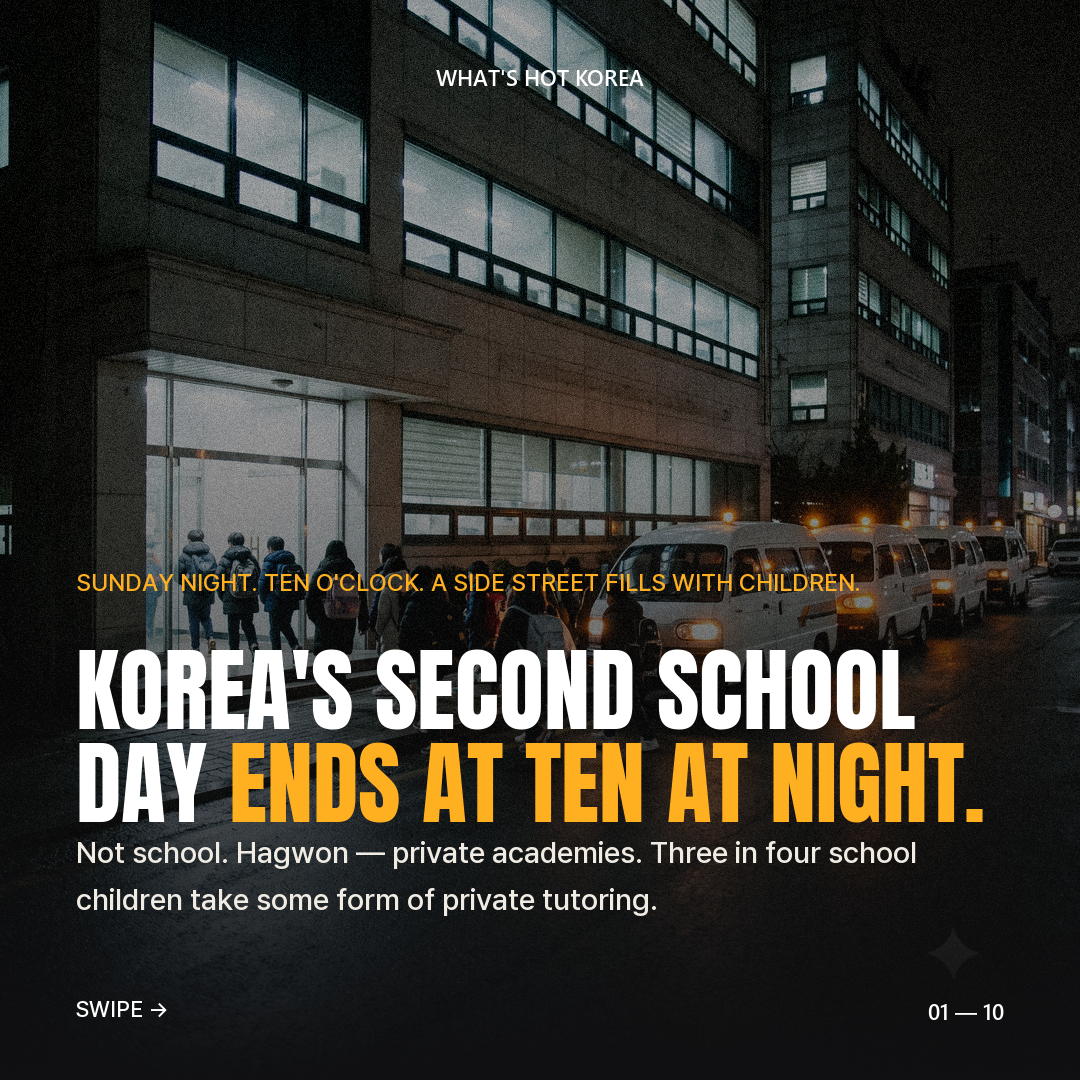
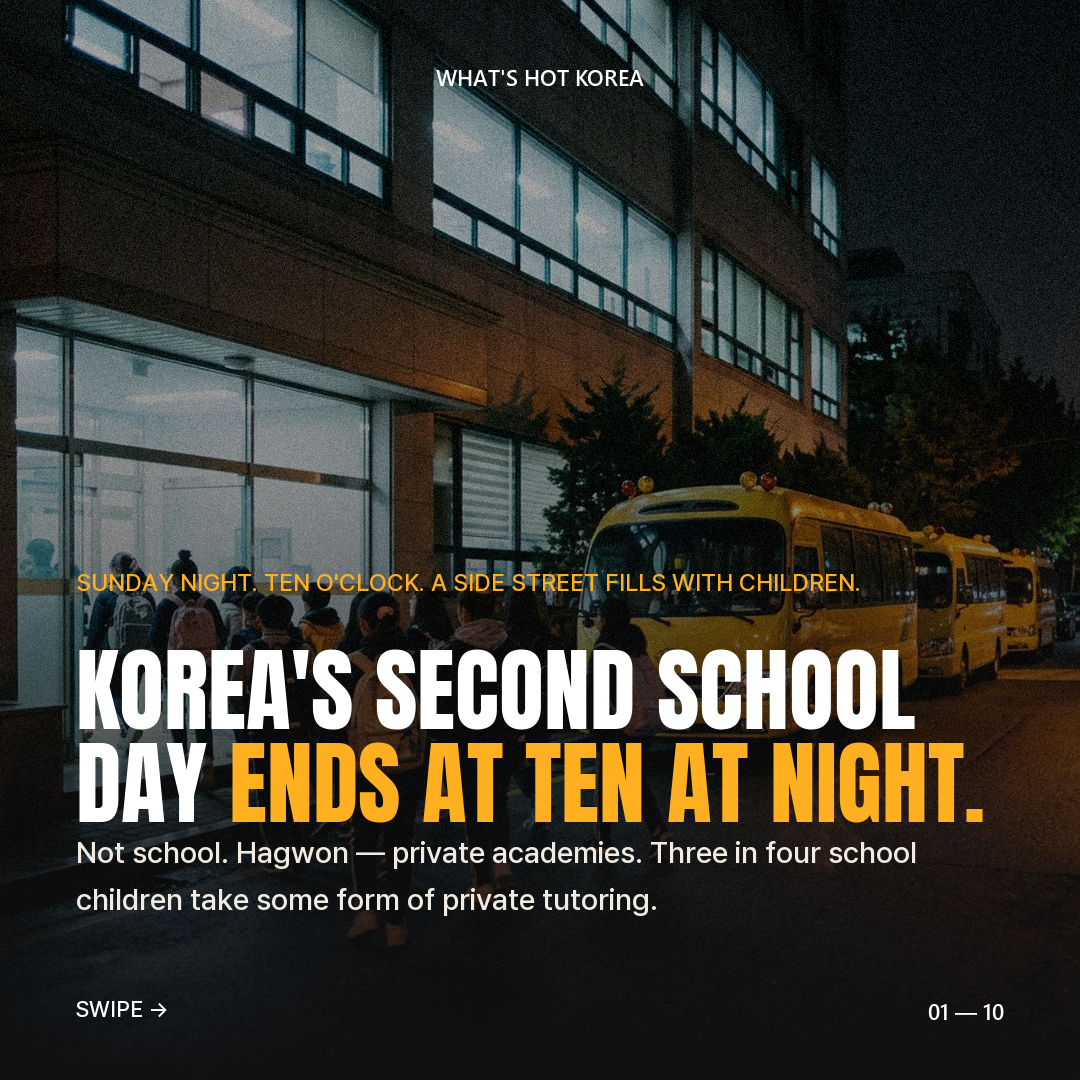
Replace the wrong shuttle photos on the 2026-09-13 hook and card 4
The prompt file told Gemini the academy shuttle was a small white van, so
cards 1 and 4 came back with white minivans. Korean academy shuttles are
legally required to be yellow: they are Hyundai County type minibuses in
school-bus yellow with amber roof lamps and convex front mirrors.

Fix the common rule and both prompts, regenerate the two photos, and
re-render the carousel.

Claude-Session: https://claude.ai/code/session_011yzLnMJmoeAZbPbugLHtCw

diff --git a/2026-09-13_일요일/PROMPTS.md b/2026-09-13_일요일/PROMPTS.md
@@ -10,7 +10,7 @@
 ```
 Photorealistic documentary photograph, square 1:1 framing, a Korean city at night, around ten o'clock.
 An academy district: a mid-rise building whose every floor is a cram school, lit windows stacked up the facade,
-a narrow street below with small shuttle vans and waiting cars. Cold fluorescent light from inside against warm
+a narrow street below with small yellow academy shuttle buses and waiting cars. Cold fluorescent light from inside against warm
 sodium street light, wet asphalt, slight film grain, shallow depth of field. Subject sits in the upper two-thirds;
 the bottom third is calm and uncluttered so text can sit over it. School-age children appear only from behind,
 cropped at the shoulders, or blurred. No text, no signage lettering, no Hangul, no letters, no numbers, no logos,
@@ -26,8 +26,11 @@ no watermarks, no recognizable faces.
 - **아이 얼굴이 잡힌다.** 미성년자 얼굴은 이 편에서 특히 위험하다. 전 컷 `from behind, cropped at the
   shoulders, or blurred` 를 강제하고, 얼굴이 살아난 컷은 버리고 다시 뽑는다.
 
-- **노란 스쿨버스가 나온다.** 학원 셔틀은 미국식 대형 스쿨버스가 아니라 **흰색 소형 승합차**다.
-  `small white shuttle van` 으로 고정했다.
+- **차가 틀린다.** 학원 셔틀은 미국식 노란 대형 스쿨버스도 아니고 흰색 승합차도 아니다. 어린이통학버스는
+  법으로 **황색 도색**이 강제돼, 실물은 **노란 현대 카운티급 소형버스**나 **노란 스타렉스/스타리아 승합차**다.
+  검은 고무 몰딩, 지붕의 호박색 경광등, 앞 범퍼 양쪽의 커다란 볼록거울, 옆으로 접히는 승하차문이 특징이다.
+  `yellow Korean academy shuttle bus, Hyundai County type boxy minibus` 로 고정한다.
+  (확인: 구글 이미지 '학원 셔틀버스' 2026-09-11 — 전부 노란색)
 
 ---
 
@@ -35,12 +38,13 @@ no watermarks, no recognizable faces.
 
 ```
 Children with backpacks streaming out of a lit building entrance onto a night pavement, seen from behind and from
-above at a slight angle, a queue of small shuttle vans with hazard lights along the kerb beside them. The building's
-upper floors are all lit. The pavement in the foreground is empty and dark.
+above at a slight angle, a queue of yellow Korean academy shuttle buses with hazard lights along the kerb beside them
+- boxy Hyundai County type minibuses painted school-bus yellow with black rubber side trim and amber roof lamps,
+plus one yellow shuttle van behind them. The building's upper floors are all lit. The pavement in the foreground is empty and dark.
 
 Photorealistic documentary photograph, square 1:1 framing, a Korean city at night, around ten o'clock.
 An academy district: a mid-rise building whose every floor is a cram school, lit windows stacked up the facade,
-a narrow street below with small shuttle vans and waiting cars. Cold fluorescent light from inside against warm
+a narrow street below with small yellow academy shuttle buses and waiting cars. Cold fluorescent light from inside against warm
 sodium street light, wet asphalt, slight film grain, shallow depth of field. Subject sits in the upper two-thirds;
 the bottom third is calm and uncluttered so text can sit over it. School-age children appear only from behind,
 cropped at the shoulders, or blurred. No text, no signage lettering, no Hangul, no letters, no numbers, no logos,
@@ -56,7 +60,7 @@ a classroom is lit and occupied, the figures inside small and out of focus.
 
 Photorealistic documentary photograph, square 1:1 framing, a Korean city at night, around ten o'clock.
 An academy district: a mid-rise building whose every floor is a cram school, lit windows stacked up the facade,
-a narrow street below with small shuttle vans and waiting cars. Cold fluorescent light from inside against warm
+a narrow street below with small yellow academy shuttle buses and waiting cars. Cold fluorescent light from inside against warm
 sodium street light, wet asphalt, slight film grain, shallow depth of field. Subject sits in the upper two-thirds;
 the bottom third is calm and uncluttered so text can sit over it. School-age children appear only from behind,
 cropped at the shoulders, or blurred. No text, no signage lettering, no Hangul, no letters, no numbers, no logos,
@@ -72,23 +76,25 @@ long shadows, the same stacked lit windows above them.
 
 Photorealistic documentary photograph, square 1:1 framing, a Korean city at night, around ten o'clock.
 An academy district: a mid-rise building whose every floor is a cram school, lit windows stacked up the facade,
-a narrow street below with small shuttle vans and waiting cars. Cold fluorescent light from inside against warm
+a narrow street below with small yellow academy shuttle buses and waiting cars. Cold fluorescent light from inside against warm
 sodium street light, wet asphalt, slight film grain, shallow depth of field. Subject sits in the upper two-thirds;
 the bottom third is calm and uncluttered so text can sit over it. School-age children appear only from behind,
 cropped at the shoulders, or blurred. No text, no signage lettering, no Hangul, no letters, no numbers, no logos,
 no watermarks, no recognizable faces.
 ```
 
-## content4.png — 밤 거리에 줄지어 선 학원 셔틀 승합차
+## content4.png — 밤 거리에 줄지어 선 노란 학원 셔틀버스
 
 ```
-A line of small white academy shuttle vans parked nose to tail along a narrow night street with their hazard lights
-blinking, cars idling behind them, a few blurred adult figures waiting on the pavement. Wet asphalt throwing back
-the red and orange light. The lower third is open empty road.
+A line of yellow Korean academy shuttle buses parked nose to tail along a narrow night street with their hazard
+lights blinking - boxy Hyundai County type minibuses painted school-bus yellow, black rubber side trim, amber
+warning lamps on the roof, large convex mirrors on the front corners, side doors folded open - cars idling behind
+them, a few blurred adult figures waiting on the pavement. Wet asphalt throwing back the yellow and red light.
+The lower third is open empty road.
 
 Photorealistic documentary photograph, square 1:1 framing, a Korean city at night, around ten o'clock.
 An academy district: a mid-rise building whose every floor is a cram school, lit windows stacked up the facade,
-a narrow street below with small shuttle vans and waiting cars. Cold fluorescent light from inside against warm
+a narrow street below with small yellow academy shuttle buses and waiting cars. Cold fluorescent light from inside against warm
 sodium street light, wet asphalt, slight film grain, shallow depth of field. Subject sits in the upper two-thirds;
 the bottom third is calm and uncluttered so text can sit over it. School-age children appear only from behind,
 cropped at the shoulders, or blurred. No text, no signage lettering, no Hangul, no letters, no numbers, no logos,
@@ -104,7 +110,7 @@ no readable signage anywhere on the building.
 
 Photorealistic documentary photograph, square 1:1 framing, a Korean city at night, around ten o'clock.
 An academy district: a mid-rise building whose every floor is a cram school, lit windows stacked up the facade,
-a narrow street below with small shuttle vans and waiting cars. Cold fluorescent light from inside against warm
+a narrow street below with small yellow academy shuttle buses and waiting cars. Cold fluorescent light from inside against warm
 sodium street light, wet asphalt, slight film grain, shallow depth of field. Subject sits in the upper two-thirds;
 the bottom third is calm and uncluttered so text can sit over it. School-age children appear only from behind,
 cropped at the shoulders, or blurred. No text, no signage lettering, no Hangul, no letters, no numbers, no logos,
@@ -120,7 +126,7 @@ the roofline, quiet empty street in the lower third.
 
 Photorealistic documentary photograph, square 1:1 framing, a Korean city at night, around ten o'clock.
 An academy district: a mid-rise building whose every floor is a cram school, lit windows stacked up the facade,
-a narrow street below with small shuttle vans and waiting cars. Cold fluorescent light from inside against warm
+a narrow street below with small yellow academy shuttle buses and waiting cars. Cold fluorescent light from inside against warm
 sodium street light, wet asphalt, slight film grain, shallow depth of field. Subject sits in the upper two-thirds;
 the bottom third is calm and uncluttered so text can sit over it. School-age children appear only from behind,
 cropped at the shoulders, or blurred. No text, no signage lettering, no Hangul, no letters, no numbers, no logos,
@@ -136,7 +142,7 @@ dim room, a glass door onto a dark corridor.
 
 Photorealistic documentary photograph, square 1:1 framing, a Korean city at night, around ten o'clock.
 An academy district: a mid-rise building whose every floor is a cram school, lit windows stacked up the facade,
-a narrow street below with small shuttle vans and waiting cars. Cold fluorescent light from inside against warm
+a narrow street below with small yellow academy shuttle buses and waiting cars. Cold fluorescent light from inside against warm
 sodium street light, wet asphalt, slight film grain, shallow depth of field. Subject sits in the upper two-thirds;
 the bottom third is calm and uncluttered so text can sit over it. School-age children appear only from behind,
 cropped at the shoulders, or blurred. No text, no signage lettering, no Hangul, no letters, no numbers, no logos,
@@ -152,7 +158,7 @@ shoulders only.
 
 Photorealistic documentary photograph, square 1:1 framing, a Korean city at night, around ten o'clock.
 An academy district: a mid-rise building whose every floor is a cram school, lit windows stacked up the facade,
-a narrow street below with small shuttle vans and waiting cars. Cold fluorescent light from inside against warm
+a narrow street below with small yellow academy shuttle buses and waiting cars. Cold fluorescent light from inside against warm
 sodium street light, wet asphalt, slight film grain, shallow depth of field. Subject sits in the upper two-thirds;
 the bottom third is calm and uncluttered so text can sit over it. School-age children appear only from behind,
 cropped at the shoulders, or blurred. No text, no signage lettering, no Hangul, no letters, no numbers, no logos,
@@ -168,7 +174,7 @@ on the board.
 
 Photorealistic documentary photograph, square 1:1 framing, a Korean city at night, around ten o'clock.
 An academy district: a mid-rise building whose every floor is a cram school, lit windows stacked up the facade,
-a narrow street below with small shuttle vans and waiting cars. Cold fluorescent light from inside against warm
+a narrow street below with small yellow academy shuttle buses and waiting cars. Cold fluorescent light from inside against warm
 sodium street light, wet asphalt, slight film grain, shallow depth of field. Subject sits in the upper two-thirds;
 the bottom third is calm and uncluttered so text can sit over it. School-age children appear only from behind,
 cropped at the shoulders, or blurred. No text, no signage lettering, no Hangul, no letters, no numbers, no logos,
@@ -184,7 +190,7 @@ light. The lower third is quiet empty road.
 
 Photorealistic documentary photograph, square 1:1 framing, a Korean city at night, around ten o'clock.
 An academy district: a mid-rise building whose every floor is a cram school, lit windows stacked up the facade,
-a narrow street below with small shuttle vans and waiting cars. Cold fluorescent light from inside against warm
+a narrow street below with small yellow academy shuttle buses and waiting cars. Cold fluorescent light from inside against warm
 sodium street light, wet asphalt, slight film grain, shallow depth of field. Subject sits in the upper two-thirds;
 the bottom third is calm and uncluttered so text can sit over it. School-age children appear only from behind,
 cropped at the shoulders, or blurred. No text, no signage lettering, no Hangul, no letters, no numbers, no logos,
